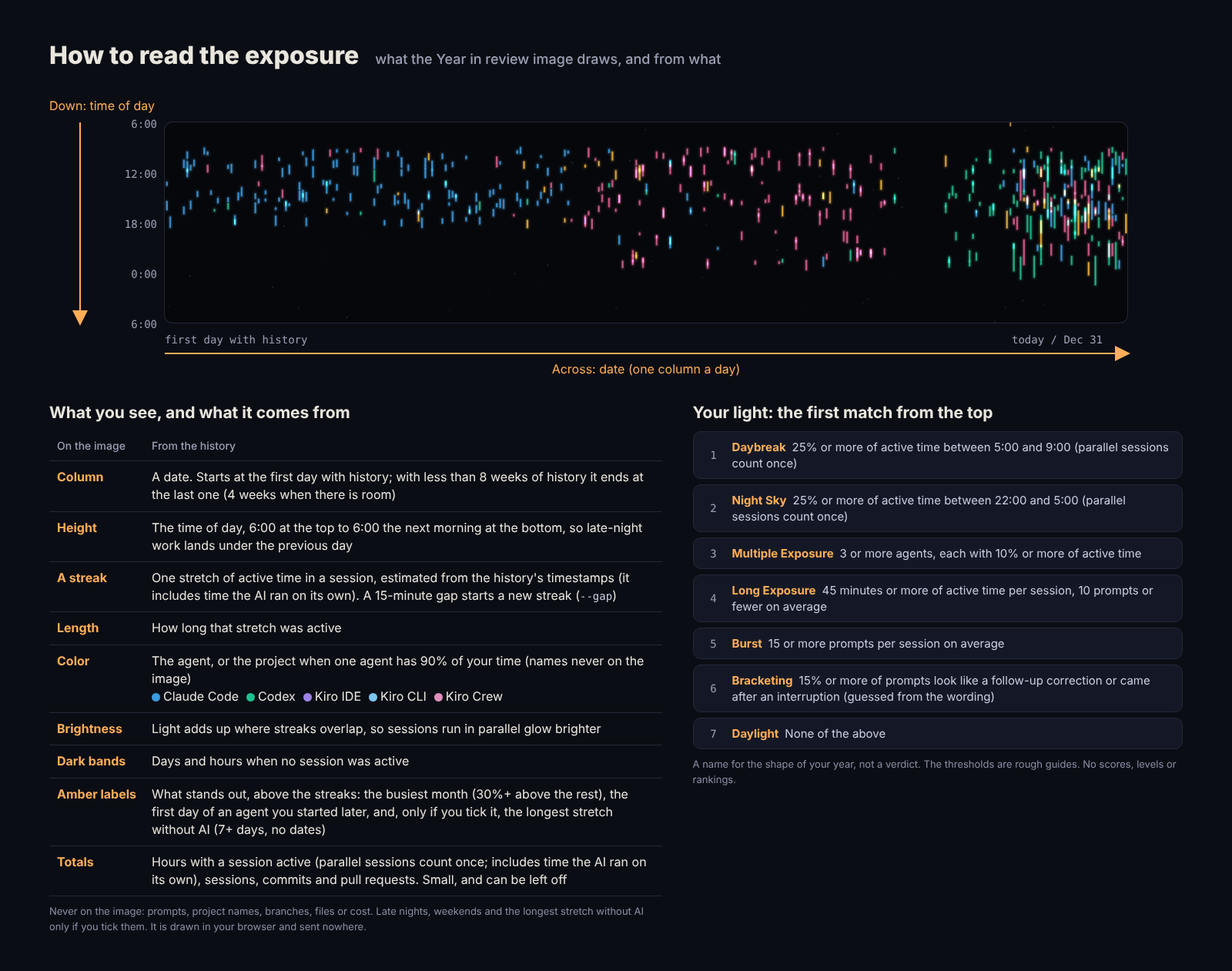
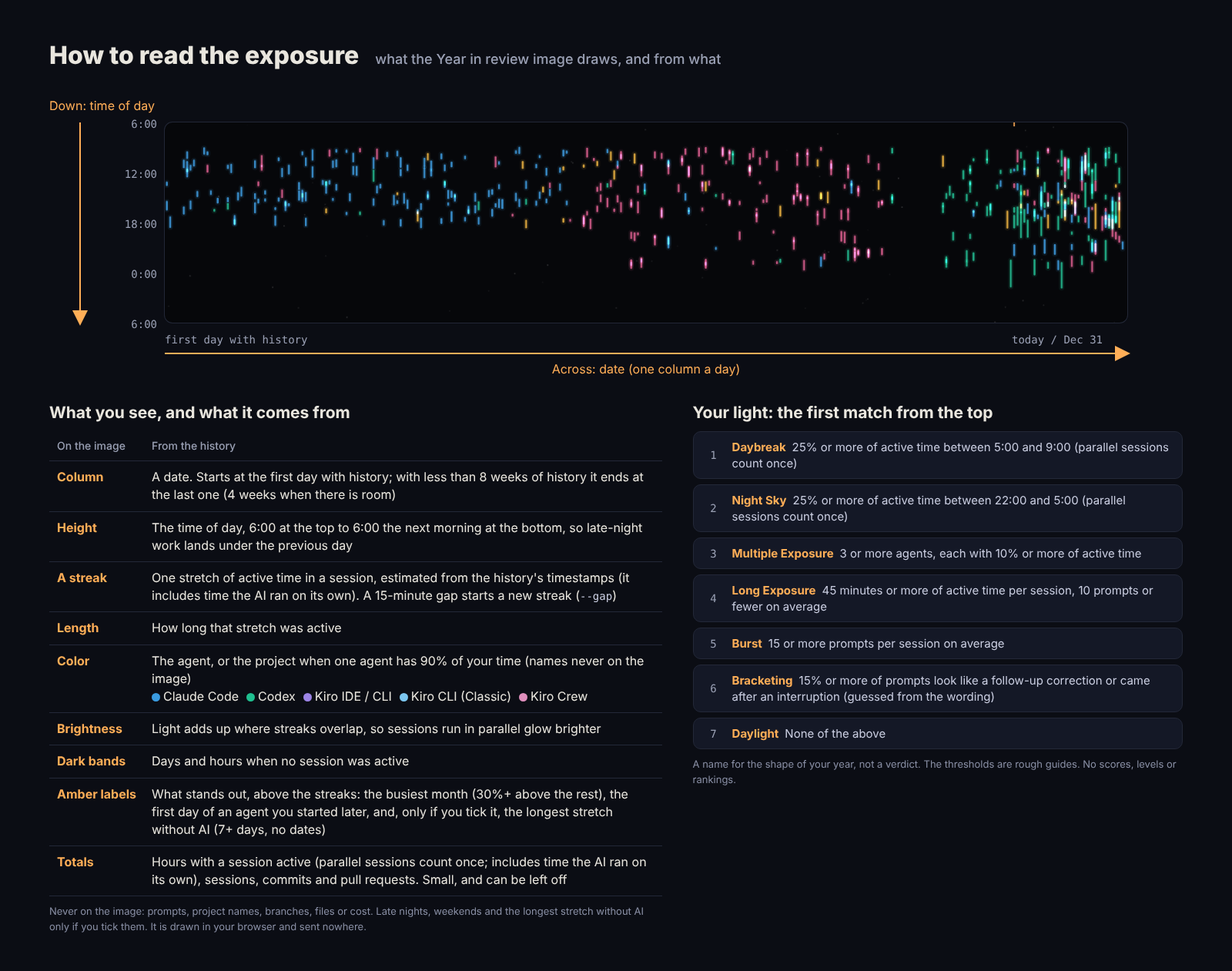
Rename Kiro source labels to "Kiro IDE / CLI" and "Kiro CLI (Classic)" (BREAKING) (#361)
* Rename Kiro source labels to "Kiro IDE / CLI" and "Kiro CLI (Classic)"

Kiro CLI V3 writes to the same ~/.kiro/sessions/<bucket>/sess_<uuid>/
store as Kiro IDE 1.x, in the same format, with nothing recording which
surface created a session (ADR 0021). Show that source as
"Kiro IDE / CLI" instead of "Kiro IDE", and the V2 JSON store
(~/.kiro/sessions/cli/) as "Kiro CLI (Classic)", Kiro's own name for V2
sessions, instead of "Kiro CLI".

BREAKING: the `source` value in `kiroku json` changes accordingly.
schemaVersion, --sources kiro, options, env vars, archive layout,
Claim/Key identity strings, colors and badge marks are unchanged.

Update core.Agents, Records and NativeDefs, test expectations
(including the source labels in testdata/golden.json and
snapshot.json; no numbers change), the guide, sources.md,
compatibility.md, the issue template and the screenshot legend, and add
a test that sess_ sessions get "Kiro IDE / CLI" and sessions/cli ones
get "Kiro CLI (Classic)".

* docs: retake year-params.png and demo.gif for the new Kiro labels

* Explain the Kiro histories in Data sources and align Kiro CLI wording

User testing of the rename found that nothing in the view said what
"Kiro IDE / CLI" and "Kiro CLI (Classic)" cover. Add a short About text
to core.Agents and show it next to the name in Data sources. Also call
the SQLite history "Kiro CLI (SQLite)" in the Compactions help, the
--kiro-cli-db help and the guide, instead of "legacy" or "old versions",
[…]

diff --git a/internal/web/js/summary.js b/internal/web/js/summary.js
@@ -107,7 +107,7 @@ const HELP = {
   wait: {n: "Wait time", d: "Median and 90th percentile of the time from an AI reply to your next prompt (up to 30 minutes)", c: "How quickly you responded to AI replies", x: "Shorter is not always better (you may be moving on without checking)", a: "If long, use notifications or batch your reviews"},
   fix: {n: "Prompts with corrections or interruptions", d: "Share estimated from the opening words of each prompt (such as 'No, that's wrong' or 'undo that') and interruptions. The first prompt of a conversation and words inside pasted code or logs are not counted", c: "Roughly how often a first prompt did not get your intent across", x: "Estimates can be wrong, and they don't show the cause", a: "If high, add background, constraints and done criteria to your prompts"},
   limits: {n: "Usage limit hits", d: "Count and times of usage limit errors (usage caps and rate limits) in Claude Code, Codex and Kiro Crew history. Hits within 1 minute count once", c: "When and during which work you hit a limit and had to stop", x: "How much headroom is left. Usage from other agents, the browser or the app", a: "Spread heavy work over time, use lighter models, and start new sessions for long conversations"},
-  compactions: {n: "Compactions", d: "How many times a conversation was compacted (summarized to free context), automatically or with /compact, from Claude Code, Codex and the SQLite history of Amazon Q / Kiro CLI, and in how many sessions. For Amazon Q / Kiro CLI only the latest compaction of each conversation is kept", c: "Which conversations grew long enough to need summarizing", x: "Whether anything important was lost in the summary, or whether the conversation should have been split", a: "When one task keeps compacting, finish it at a good stopping point and start the next in a new session"},
+  compactions: {n: "Compactions", d: "How many times a conversation was compacted (summarized to free context), automatically or with /compact, from Claude Code, Codex and the SQLite history of Amazon Q / Kiro CLI (SQLite), and in how many sessions. For Amazon Q / Kiro CLI only the latest compaction of each conversation is kept", c: "Which conversations grew long enough to need summarizing", x: "Whether anything important was lost in the summary, or whether the conversation should have been split", a: "When one task keeps compacting, finish it at a good stopping point and start the next in a new session"},
   longctx: {n: "Long conversations", d: "Sessions where the input read per response (new input plus cache reads and writes) in the last quarter of the conversation was at least 4 times that of the first quarter, peaking at half the model's context window or more (100K tokens or more when the window is unknown; estimated cost $0.5 or more; only agents that record tokens)", c: "Sessions where each response got heavier as the conversation went on", x: "Whether continuing the conversation was the right call (some work needs the earlier context)", a: "At a good stopping point, write down the key points and continue in a new session"},
   modelfit: {n: "Expensive models for light work", d: "Total for sessions that mainly used Opus-class models, had 3 or fewer prompts, edited no files and cost $0.3 or more", c: "How much went to short tasks on an expensive model", x: "Whether that model was needed (some research or design questions are hard)", a: "Try a lighter model first for research and questions, and switch if it falls short"},
   friction: {n: "Sessions with possible friction", d: "Up to 3 sessions started in the period with at least one correction or interruption, or 15 or more prompts, most first", c: "Sessions where rework piled up", x: "Why it went wrong", a: "Next period, split big requests into one step per prompt"},

diff --git a/internal/web/testdata/records_test.js b/internal/web/testdata/records_test.js
@@ -3,13 +3,13 @@
 const eq = (got, want, msg) => { if (JSON.stringify(got) !== JSON.stringify(want)){ console.error(`${msg}: ${JSON.stringify(got)} ではなく ${JSON.stringify(want)} のはず`); process.exitCode = 1; } };
 const ses = (source, start) => ({source, start, end: start + 60});
 eq(records("Claude Code", "limits"), true, "Claude Code は上限を記録する");
-eq(records("Kiro IDE", "limits"), false, "Kiro IDE は上限を記録しない");
+eq(records("Kiro IDE / CLI", "limits"), false, "Kiro IDE は上限を記録しない");
 eq(records("Unknown agent", "files"), false, "表にないエージェントは記録しないとみなす");
-DATA = [ses("Kiro IDE", 100), ses("Kiro CLI", 200), ses("Kiro IDE", 300)];
-eq(unrecorded(0, 1000, "limits"), ["Kiro IDE", "Kiro CLI"], "どれも記録しないなら、そのエージェントの名前（重ねない）");
+DATA = [ses("Kiro IDE / CLI", 100), ses("Kiro CLI (Classic)", 200), ses("Kiro IDE / CLI", 300)];
+eq(unrecorded(0, 1000, "limits"), ["Kiro IDE / CLI", "Kiro CLI (Classic)"], "どれも記録しないなら、そのエージェントの名前（重ねない）");
 eq(unrecorded(0, 1000, "files"), null, "どれかが記録するなら null（0 を出す）");
 eq(unrecorded(5000, 6000, "limits"), null, "期間にセッションがなければ null");
 DATA.push(ses("Claude Code", 400));
 eq(unrecorded(0, 1000, "limits"), null, "記録するエージェントが混ざれば null");
-eq(unrecorded(0, 150, "limits"), ["Kiro IDE"], "期間の外のセッションは見ない");
-eq(notRec(["Kiro IDE", "Kiro CLI"]), "Not recorded in Kiro IDE, Kiro CLI history", "言い方");
+eq(unrecorded(0, 150, "limits"), ["Kiro IDE / CLI"], "期間の外のセッションは見ない");
+eq(notRec(["Kiro IDE / CLI", "Kiro CLI (Classic)"]), "Not recorded in Kiro IDE / CLI, Kiro CLI (Classic) history", "言い方");

diff --git a/internal/web/testdata/keeprow_test.js b/internal/web/testdata/keeprow_test.js
@@ -11,17 +11,17 @@ const archOn = () => !!(META.archive && META.archive.on);
 const has = (got, want, msg) => { if (!got.includes(want)){ console.error(`${msg}: ${got} に ${want} がない`); process.exitCode = 1; } };
 const not = (got, bad, msg) => { if (got.includes(bad)){ console.error(`${msg}: ${got} に ${bad} がある`); process.exitCode = 1; } };
 const zero = {days: 0, now: true, set: true, who: "Kiro Crew", setting: "session.archive_retention_days", docs: "https://docs"};
-let row = keepRow({name: "Kiro CLI", retention: zero});
+let row = keepRow({name: "Kiro CLI (Classic)", retention: zero});
 has(row, "Older records are deleted at the next cleanup (<code>session.archive_retention_days</code> is 0)", "0 日は次の片付けで消える");
 has(row, `class="kw"`, "0 日は注意として出す");
 not(row, "after a period", "0 日を「わからない期間」と出さない");
 not(row, "Kept for 0 days", "0 日を「0 日残す」と出さない");
 META.archive.on = true;
-row = keepRow({name: "Kiro CLI", retention: zero});
+row = keepRow({name: "Kiro CLI (Classic)", retention: zero});
 has(row, "but kiroku keeps a copy", "kiroku archive がオンなら、コピーがあると出す");
 not(row, `class="kw"`, "コピーがあれば注意にしない");
 META.archive.on = false;
-has(keepRow({name: "Kiro CLI", retention: {days: 90, set: true, setting: "s"}}), "Kept for 90 days", "設定した日数");
+has(keepRow({name: "Kiro CLI (Classic)", retention: {days: 90, set: true, setting: "s"}}), "Kept for 90 days", "設定した日数");
 has(keepRow({name: "X", retention: {days: 0, set: false, setting: "s", docs: "d"}}), "Older records are deleted after a period", "日数がわからないとき");
 has(keepRow({name: "X", retention: {days: 30, set: false, setting: "<s>", docs: "d"}}), "<code>&lt;s&gt;</code>", "設定の名前は打ち消す");
 

diff --git a/tools/screenshots/year-params.html b/tools/screenshots/year-params.html
@@ -53,7 +53,7 @@ code{font:500 14px ui-monospace,Menlo,Consolas,monospace;color:#c9cde0}
    <tr><td>Height</td><td>The time of day, 6:00 at the top to 6:00 the next morning at the bottom, so late-night work lands under the previous day</td></tr>
    <tr><td>A streak</td><td>One stretch of active time in a session, estimated from the history's timestamps (it includes time the AI ran on its own). A 15-minute gap starts a new streak (<code>--gap</code>)</td></tr>
    <tr><td>Length</td><td>How long that stretch was active</td></tr>
-   <tr><td>Color</td><td>The agent, or the project when one agent has 90% of your time (names never on the image)<br><span class="dot" style="background:#3a9be0;margin-left:0"></span>Claude Code<span class="dot" style="background:#1fbf8f"></span>Codex<span class="dot" style="background:#9c84e6"></span>Kiro IDE<span class="dot" style="background:#7cc6f0"></span>Kiro CLI<span class="dot" style="background:#e08fbd"></span>Kiro Crew</td></tr>
+   <tr><td>Color</td><td>The agent, or the project when one agent has 90% of your time (names never on the image)<br><span class="dot" style="background:#3a9be0;margin-left:0"></span>Claude Code<span class="dot" style="background:#1fbf8f"></span>Codex<span class="dot" style="background:#9c84e6"></span>Kiro IDE / CLI<span class="dot" style="background:#7cc6f0"></span>Kiro CLI (Classic)<span class="dot" style="background:#e08fbd"></span>Kiro Crew</td></tr>
    <tr><td>Brightness</td><td>Light adds up where streaks overlap, so sessions run in parallel glow brighter</td></tr>
    <tr><td>Dark bands</td><td>Days and hours when no session was active</td></tr>
    <tr><td>Amber labels</td><td>What stands out, above the streaks: the busiest month (30%+ above the rest), the first day of an agent you started later, and, only if you tick it, the longest stretch without AI (7+ days, no dates)</td></tr>

diff --git a/internal/web/js/ui.js b/internal/web/js/ui.js
@@ -41,6 +41,7 @@ const pathRow = (title, label, icon = "file") => `<li title="${esc(title)}">${ic
 const ico = (k, cls = "") => `<svg class="ic${cls ? " " + cls : ""}" viewBox="0 0 16 16" aria-hidden="true">${ICON_PATH[k] || ""}</svg>`;
 /* エージェントの目印：ロゴは使わず、頭文字のバッジにする */
 const AG_MARK = Object.fromEntries(AGENTS.map(a => [a.name, a.mark])); // core.Agents の Mark
+const AG_ABOUT = Object.fromEntries(AGENTS.map(a => [a.name, a.about || ""])); // core.Agents の About（Data sources で名前に添える）
 const agMark = name => `<i class="agm" style="--ag:${agColor(name)}" aria-hidden="true">${esc(AG_MARK[name] || String(name).slice(0, 2).toUpperCase())}</i>`;
 /* セッションのカード：セッション名で始まるカードは、どこでもこの形（エージェントの色のグラデーションとエージェントの頭文字）。
    me はタイトルの下の行（HTML。呼ぶ側でエスケープする）、v は右に出す値（文字。ここでエスケープする） */

diff --git a/internal/core/agents.go b/internal/core/agents.go
@@ -10,13 +10,14 @@ import (
 // kiroku archive のフォルダ、画面の色と頭文字（web が __AGENTS__ として埋めこむ）。
 // TestAgentsCoverEverySource が、source.All の Name・Family と食い違っていないかを確かめる。
 type Agent struct {
-	Name    string   `json:"name"` // 画面とセッションの source に出る名前（Source.Name()。Kiro Crew のように、ほかの Source が読むものもある）
-	Family  string   `json:"-"`    // --sources で選ぶ名前（Source.Family()）
-	Slot    int      `json:"slot"` // 画面の色（--c<Slot>）。警告の色（AgentWarnSlots）は使わない
-	Mark    string   `json:"mark"` // バッジに出す頭文字
-	Env     []string `json:"-"`    // 読む場所を変える、エージェント自身の環境変数（kiroku autostart が書き残す）
-	Archive string   `json:"-"`    // kiroku archive がコピーを置く、保存場所の下のフォルダ（空ならコピーしない）
-	Note    string   `json:"-"`    // --sources の説明で、Family に添える一言
+	Name    string   `json:"name"`            // 画面とセッションの source に出る名前（Source.Name()。Kiro Crew のように、ほかの Source が読むものもある）
+	Family  string   `json:"-"`               // --sources で選ぶ名前（Source.Family()）
+	Slot    int      `json:"slot"`            // 画面の色（--c<Slot>）。警告の色（AgentWarnSlots）は使わない
+	Mark    string   `json:"mark"`            // バッジに出す頭文字
+	Env     []string `json:"-"`               // 読む場所を変える、エージェント自身の環境変数（kiroku autostart が書き残す）
+	Archive string   `json:"-"`               // kiroku archive がコピーを置く、保存場所の下のフォルダ（空ならコピーしない）
+	Note    string   `json:"-"`               // --sources の説明で、Family に添える一言
+	About   string   `json:"about,omitempty"` // 画面の「Data sources」で名前に添える説明（名前だけでは何の履歴かわかりにくいとき）
 }
 
 // AgentWarnSlots は、警告に見えるのでエージェントに使わない色（オレンジ・黄色）。
@@ -26,10 +27,11 @@ var AgentWarnSlots = []int{1, 4}
 // Amazon Q は Kiro CLI の前身なので同じ色にする。
 var Agents = []Agent{
 	{Name: "Claude Code", Family: "claude", Slot: 0, Mark: "CC", Env: []string{"CLAUDE_CONFIG_DIR"}, Archive: "claude"},
-	{Name: "Kiro IDE", Family: "kiro", Slot: 6, Mark: "KI", Env: []string{"KIRO_HOME"}},
+	{Name: "Kiro IDE / CLI", Family: "kiro", Slot: 6, Mark: "KI", Env: []string{"KIRO_HOME"},
+		About: "Kiro IDE 1.x and Kiro CLI V3, which share one history that doesn't record which of them ran a session"},
 	{Name: "Kiro IDE (legacy)", Family: "kiro", Slot: 6, Mark: "KI"},
-	{Name: "Kiro CLI", Family: "kiro", Slot: 5, Mark: "KC", Env: []string{"KIRO_HOME"}},
-	{Name: "Kiro CLI (SQLite)", Family: "kiro", Slot: 5, Mark: "KC"},
+	{Name: "Kiro CLI (Classic)", Family: "kiro", Slot: 5, Mark: "KC", Env: []string{"KIRO_HOME"}, About: "Kiro CLI V2"},
+	{Name: "Kiro CLI (SQLite)", Family: "kiro", Slot: 5, Mark: "KC", About: "older Kiro CLI versions"},
 	{Name: "Kiro Crew", Family: "kiro", Slot: 3, Mark: "KW", Env: []string{"KIROCREW_HOME"}, Archive: "crew", Note: "includes Kiro Crew"},
 	{Name: "Amazon Q", Family: "amazonq", Slot: 5, Mark: "Q"},
 	{Name: "Codex", Family: "codex", Slot: 2, Mark: "CX", Env: []string{"CODEX_HOME"}},

diff --git a/internal/source/kiro.go b/internal/source/kiro.go
@@ -14,10 +14,11 @@ import (
 	"github.com/MichinaoShimizu/kiroku/internal/core"
 )
 
-// KiroIDE は Kiro IDE v1.0 以降: <KIRO_HOME>/sessions/<hash>/sess_<id>/{session.json,messages.jsonl}（行ごとに timestamp あり）。
+// KiroIDE は Kiro IDE v1.0 以降と Kiro CLI V3 が共有する保存場所: <KIRO_HOME>/sessions/<hash>/sess_<id>/{session.json,messages.jsonl}（行ごとに timestamp あり）。
+// どちらが作った会話かは記録されないので、"Kiro IDE / CLI" として出す（docs/adr/0021-kiro-cli-v3-separate-source.md）。
 type KiroIDE struct{ Home string }
 
-func (k *KiroIDE) Name() string   { return "Kiro IDE" }
+func (k *KiroIDE) Name() string   { return "Kiro IDE / CLI" }
 func (k *KiroIDE) Family() string { return "kiro" }
 func (k *KiroIDE) Where() string  { return filepath.Join(k.Home, "sessions") }
 
@@ -51,7 +52,7 @@ func (k *KiroIDE) Load(emit func(*core.Builder)) error {
 		raw, err := core.ReadJSONFile(metaPath)
 		errs.file(metaPath, err)
 		meta := core.Map(raw)
-		s := core.NewBuilder("Kiro IDE", firstNonEmpty(core.Str(meta["id"]), filepath.Base(dir)))
+		s := core.NewBuilder("Kiro IDE / CLI", firstNonEmpty(core.Str(meta["id"]), filepath.Base(dir)))
 		// v1.0 へ移した会話は、v1.0 より前の形式（KiroIDELegacy）にも同じ ID で残る。v1.0 のほうを使う（kiro-history と同じ）。
 		// id のない会話（フォルダ名の ID）は、v1.0 より前の会話と同じものかわからないので Claim しない
 		if id := core.Str(meta["id"]); id != "" {
@@ -165,7 +166,7 @@ func replyAt(t *float64, turnEnds []*float64, n int, asked *float64) *float64 {
 	return asked
 }
 
-// KiroCLI は Kiro CLI: <KIRO_HOME>/sessions/cli/<id>.json（メタ）+ <id>.jsonl（Prompt/AssistantMessage）。
+// KiroCLI は Kiro CLI V2（Kiro の言う Classic）: <KIRO_HOME>/sessions/cli/<id>.json（メタ）+ <id>.jsonl（Prompt/AssistantMessage）。
 // Kiro Crew から動かした会話には、Crew の目印とタイトルをつける（crew.go）。
 type KiroCLI struct {
 	Home        string
@@ -241,7 +242,7 @@ func (k *KiroCLI) DetailEn() string {
 	return strings.Join(parts, "; ")
 }
 
-func (k *KiroCLI) Name() string { return "Kiro CLI" }
+func (k *KiroCLI) Name() string { return "Kiro CLI (Classic)" }
 
 // Retention は Kiro Crew の会話の記録の保存期間（session.archive_retention_days。既定 30 日）。Crew を使っているときだけ。
 // Crew は退避した会話の記録を新しく書いたとき（1 つのプロセスで 1 時間に 1 回まで）に、sessions/archive/ のうち更新時刻がそれより古いものを消す
@@ -320,7 +321,7 @@ func (k *KiroCLI) Load(emit func(*core.Builder)) error {
 		meta := core.Map(raw)
 		stem := strings.TrimSuffix(filepath.Base(metaPath), ".json")
 		sid := firstNonEmpty(core.Str(meta["session_id"]), core.Str(meta["id"]), stem)
-		s := core.NewBuilder("Kiro CLI", sid)
+		s := core.NewBuilder("Kiro CLI (Classic)", sid)
 		s.File = strings.TrimSuffix(metaPath, ".json") + ".jsonl"
 		s.Key = "kiro-cli:" + sid
 		s.Title, s.Project = core.Str(meta["title"]), core.Str(meta["cwd"])

diff --git a/internal/source/kiro_test.go b/internal/source/kiro_test.go
@@ -116,6 +116,39 @@ func TestKiroMissingMessages(t *testing.T) {
 	}
 }
 
+// 共有の保存場所（sessions/<bucket>/sess_*。Kiro IDE v1.0 以降と Kiro CLI V3）の会話は "Kiro IDE / CLI"、
+// V2 の sessions/cli/ の会話は "Kiro CLI (Classic)" として出す（docs/adr/0021-kiro-cli-v3-separate-source.md）。
+func TestKiroSourceLabels(t *testing.T) {
+	home := t.TempDir()
+	writeFiles(t, home, map[string]string{
+		"sessions/0123456789abcdef/sess_3f2a/session.json":   `{"schemaVersion": 1, "id": "sess_3f2a", "workspacePaths": ["/Users/me/app"], "createdAt": "2026-10-01T01:00:00Z"}`,
+		"sessions/0123456789abcdef/sess_3f2a/messages.jsonl": `{"timestamp": "2026-10-01T01:01:00Z", "payload": {"type": "user", "content": "ビルドを直して"}}` + "\n",
+		"sessions/cli/c1.json": `{"session_id": "c1", "cwd": "/Users/me/app", "created_at": "2026-10-01T02:00:00Z",
+  "session_state": {"conversation_metadata": {"user_turn_metadatas": [{"end_timestamp": "2026-10-01T02:05:00Z"}]}}}`,
+	})
+	for _, c := range []struct {
+		src  Source
+		want string
+	}{
+		{&KiroIDE{Home: home}, "Kiro IDE / CLI"},
+		{&KiroCLI{Home: home}, "Kiro CLI (Classic)"},
+	} {
+		if c.src.Name() != c.want {
+			t.Errorf("Name() = %q, want %q", c.src.Name(), c.want)
+		}
+		if _, ok := core.AgentOf(c.want); !ok {
+			t.Errorf("core.Agents に %q がない", c.want)
+		}
+		bs := load(t, c.src)
+		if len(bs) != 1 {
+			t.Fatalf("%s: %d 件, want 1", c.want, len(bs))
+		}
+		if bs[0].Source != c.want || bs[0].Finish(15).Source != c.want {
+			t.Errorf("source = %q, want %q", bs[0].Source, c.want)
+		}
+	}
+}
+
 // Kiro IDE v1.0 以降: 中身が「...」だけの応答の行は書いている途中の仮の文なので、応答にしない。
 func TestKiroIDEPlaceholderReply(t *testing.T) {
 	home := t.TempDir()

diff --git a/internal/cli/load_test.go b/internal/cli/load_test.go
@@ -47,7 +47,7 @@ func setup(t *testing.T) (data any, weeks map[string]*report.Week, rep []source.
 		KiroStorages: []string{filepath.Join(h, ".config", "Kiro", "User", "globalStorage", "kiro.kiroagent")},
 	})
 	// Python 版にあった 4 つの履歴だけで比べる（あとから足したアダプターは internal/source のテストで確かめる）
-	python := map[string]bool{"Claude Code": true, "Kiro IDE": true, "Kiro CLI": true, "Kiro IDE (legacy)": true}
+	python := map[string]bool{"Claude Code": true, "Kiro IDE / CLI": true, "Kiro CLI (Classic)": true, "Kiro IDE (legacy)": true}
 	var picked []source.Source
 	for _, s := range all {
 		if python[s.Name()] {
@@ -164,7 +164,7 @@ func TestKiroIDEMigratedCountedOnce(t *testing.T) {
 	for _, r := range rep {
 		n[r.Name] = r
 	}
-	if r := n["Kiro IDE"]; r.N != 1 || r.Error != nil {
+	if r := n["Kiro IDE / CLI"]; r.N != 1 || r.Error != nil {
 		t.Errorf("Kiro IDE: n=%d err=%v, want 1", r.N, r.Error)
 	}
 	if r := n["Kiro IDE (legacy)"]; r.N != 1 || r.Dup != 1 || r.Error != nil {
@@ -174,7 +174,7 @@ func TestKiroIDEMigratedCountedOnce(t *testing.T) {
 		t.Fatalf("セッション数 = %d, want 2", len(data))
 	}
 	for _, s := range data {
-		if s.ID == "conv-a" && s.Source != "Kiro IDE" {
+		if s.ID == "conv-a" && s.Source != "Kiro IDE / CLI" {
 			t.Errorf("conv-a は v1.0 のほうを使う: %s", s.Source)
 		}
 	}
@@ -216,7 +216,7 @@ func TestKiroIDEMigratedOnlyLegacyYields(t *testing.T) {
 	for _, r := range rep {
 		n[r.Name] = r
 	}
-	if r := n["Kiro IDE"]; r.N != 5 || r.Dup != 0 {
+	if r := n["Kiro IDE / CLI"]; r.N != 5 || r.Dup != 0 {
 		t.Errorf("Kiro IDE: n=%d dup=%d, want 5 と 0（v1.0 どうしは外さない）", r.N, r.Dup)
 	}
 	if r := n["Kiro IDE (legacy)"]; r.N != 2 || r.Dup != 0 {

diff --git a/tools/screenshots/gen.py b/tools/screenshots/gen.py
@@ -1,4 +1,4 @@
-"""スクリーンショット用のダミーの履歴を作る（Claude Code・Codex CLI・Kiro CLI・Kiro IDE、架空の 4 プロジェクト、今日までの約 5 週間。それより前の約 11 か月は、Year in review の見本用に短い Claude Code の履歴だけ）。
+"""スクリーンショット用のダミーの履歴を作る（Claude Code・Codex CLI・Kiro CLI (Classic)・Kiro IDE / CLI、架空の 4 プロジェクト、今日までの約 5 週間。それより前の約 11 か月は、Year in review の見本用に短い Claude Code の履歴だけ）。
 スクリーンショットは英語表示で撮るので、プロンプトも英語にする。
 
   python3 gen.py <出力先>   → <出力先>/home/.claude/projects・<出力先>/home/.codex・<出力先>/home/.kiro と <出力先>/repos/<プロジェクト>
@@ -113,7 +113,7 @@ for d in range(35, -1, -1):
 os.makedirs(os.path.join(OUT, "home", ".claude"), exist_ok=True)
 json.dump({"cleanupPeriodDays": 3650}, open(os.path.join(OUT, "home", ".claude", "settings.json"), "w"))
 
-# ほかのエージェント（Codex CLI・Kiro CLI・Kiro IDE）の履歴も作る。kiroku は複数のエージェントを 1 つの画面に並べるので、デモもそう見せる。
+# ほかのエージェント（Codex CLI・Kiro CLI (Classic)・Kiro IDE / CLI）の履歴も作る。kiroku は複数のエージェントを 1 つの画面に並べるので、デモもそう見せる。
 # Claude Code の分のあとに別の乱数で作るので、Claude Code のダミーデータは変わらない
 oth = random.Random(19)
 def iso(t): return t.astimezone(dt.timezone.utc).isoformat().replace("+00:00", "Z")

diff --git a/internal/cli/doctor_test.go b/internal/cli/doctor_test.go
@@ -18,7 +18,7 @@ func TestDoctorReport(t *testing.T) {
 	dir := t.TempDir()
 	rep := []source.Report{
 		{Name: "Claude Code", N: 12, Oldest: 1.78e9, Where: "/x/projects", Keep: &source.Retention{Days: 30, Setting: "cleanupPeriodDays", Snippet: `"cleanupPeriodDays": 3650`, Docs: "https://docs", File: "/x/settings.json"}},
-		{Name: "Kiro CLI", N: 3, Where: "/x/.kiro/sessions/cli", Keep: &source.Retention{Days: 30, Who: "Kiro Crew", Setting: "session.archive_retention_days", Snippet: `"session": {"archive_retention_days": 3650}`, Docs: "https://docs", File: "/x/crew/config.local.json"}},
+		{Name: "Kiro CLI (Classic)", N: 3, Where: "/x/.kiro/sessions/cli", Keep: &source.Retention{Days: 30, Who: "Kiro Crew", Setting: "session.archive_retention_days", Snippet: `"session": {"archive_retention_days": 3650}`, Docs: "https://docs", File: "/x/crew/config.local.json"}},
 		{Name: "Codex", Where: "/x/.codex"},
 	}
 	fakeKirokuPath(t, "/x/bin/kiroku", "/x/bin/kiroku")
@@ -88,7 +88,7 @@ func TestDoctorZeroDayRetention(t *testing.T) {
 	fakeAutostart(t, "darwin", noAnswer)
 	fakeKirokuPath(t, "/x/bin/kiroku", "/x/bin/kiroku")
 	dir := t.TempDir()
-	rep := []source.Report{{Name: "Kiro CLI", N: 3, Where: "/x/.kiro/sessions/cli", Keep: &source.Retention{Days: 0, Now: true, Set: true, Who: "Kiro Crew",
+	rep := []source.Report{{Name: "Kiro CLI (Classic)", N: 3, Where: "/x/.kiro/sessions/cli", Keep: &source.Retention{Days: 0, Now: true, Set: true, Who: "Kiro Crew",
 		Setting: "session.archive_retention_days", Snippet: `"session": {"archive_retention_days": 3650}`, Docs: "https://docs", File: "/x/crew/config.local.json"}}}
 	var b bytes.Buffer
 	doctorReport(&b, rep, 3, dir, release{}, false)
